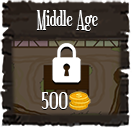
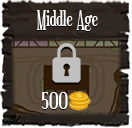
SeleccionObjetos
Añadida la funcionalidad de poder seleccionar un objeto a comprar y que se coloree de amarillo. Además de deshabilitar la interactividad de los demás botones para no causar confusión.

Changed region(s): [[0.3939, 0.3125, 0.6364, 0.6562]]

diff --git a/src/scenes/tiendaRecargarScene.js b/src/scenes/tiendaRecargarScene.js
@@ -16,6 +16,7 @@ let monedas=[
     }
 ];
 
+let monedasButton = [];
 class tiendaRecargarScene extends Phaser.Scene{
     constructor(){
         super("TiendaRecargarScene");
@@ -43,14 +44,14 @@ class tiendaRecargarScene extends Phaser.Scene{
             this.spriteTituloRecargar = this.add.sprite(gameConfig.scale.width/2,gameConfig.scale.height/7,'tituloRecargari');
         }
 
-        this.sprite100monedas = this.add.sprite(gameConfig.scale.width / 4,gameConfig.scale.height*1.5/3,monedas[0].sprite);
-        this.sprite100monedas.setInteractive().on('pointerdown', () =>this.desbloquear(monedas[0],dinero,0));
+        monedasButton[0] = this.add.sprite(gameConfig.scale.width / 4,gameConfig.scale.height*1.5/3,monedas[0].sprite);
+        monedasButton[0].setInteractive().on('pointerdown', () =>this.desbloquear(monedas[0],dinero,0));
 
-        this.sprite500monedas = this.add.sprite(gameConfig.scale.width*2 / 4,gameConfig.scale.height*1.5/3,monedas[1].sprite);
-        this.sprite500monedas.setInteractive().on('pointerdown', () =>this.desbloquear(monedas[1],dinero,1));
+        monedasButton[1] = this.add.sprite(gameConfig.scale.width*2 / 4,gameConfig.scale.height*1.5/3,monedas[1].sprite);
+        monedasButton[1].setInteractive().on('pointerdown', () =>this.desbloquear(monedas[1],dinero,1));
 
-        this.sprite1000monedas = this.add.sprite(gameConfig.scale.width*3 / 4,gameConfig.scale.height*1.5/3,monedas[2].sprite);
-        this.sprite1000monedas.setInteractive().on('pointerdown', () =>this.desbloquear(monedas[2],dinero,2));
+        monedasButton[2] = this.add.sprite(gameConfig.scale.width*3 / 4,gameConfig.scale.height*1.5/3,monedas[2].sprite);
+        monedasButton[2].setInteractive().on('pointerdown', () =>this.desbloquear(monedas[2],dinero,2));
 
         this.spriteSalir = this.add.sprite(gameConfig.scale.width / 15,(gameConfig.scale.height/8)*7.5,'botonSalir').setScale(0.1);
         this.spriteSalir.setInteractive().on('pointerdown', () => this.scene.start("TiendaScene"));
@@ -58,8 +59,13 @@ class tiendaRecargarScene extends Phaser.Scene{
 
     //Show a message to unlock a map
     desbloquear(moneda,dinero,pos){
+        var i;
+        for (i = 0; i < monedasButton.length; i++) {
+            monedasButton[i].disableInteractive();
+        }
 
         if(espanol){
+            monedasButton[pos].setTint(0xDEDE7C);
             this.mensajeDesbloquear = this.add.sprite(gameConfig.scale.width / 2,(gameConfig.scale.height/3)*2.4,'mensajeDesbloquear');
         }else{
             this.mensajeDesbloquear = this.add.sprite(gameConfig.scale.width / 2,(gameConfig.scale.height/3)*2.4,'mensajeDesbloqueari');
@@ -67,7 +73,7 @@ class tiendaRecargarScene extends Phaser.Scene{
         
 
         this.spriteDesbloquearNo = this.add.sprite(gameConfig.scale.width*1.2 / 2,(gameConfig.scale.height/3)*2.6,'botonDesbloquearNo');
-        this.spriteDesbloquearNo.setInteractive().on('pointerdown',()=> this.cerrarMensajeDesbloquear());
+        this.spriteDesbloquearNo.setInteractive().on('pointerdown',()=> this.cerrarMensajeDesbloquear(pos));
 
         this.spriteDesbloquearSi = this.add.sprite(gameConfig.scale.width*0.8 / 2,(gameConfig.scale.height/3)*2.6,'botonDesbloquearSi');
         this.spriteDesbloquearSi.setInteractive().on('pointerdown',()=> this.comprarMonedas(moneda,dinero,pos));
@@ -75,7 +81,12 @@ class tiendaRecargarScene extends Phaser.Scene{
     }
 
     //Destroy the message
-    cerrarMensajeDesbloquear(){
+    cerrarMensajeDesbloquear(pos){
+        var i;
+        for (i = 0; i < monedasButton.length; i++) {
+            monedasButton[i].setInteractive();
+        }
+        monedasButton[pos].clearTint();
         this.mensajeDesbloquear.destroy();
         this.spriteDesbloquearNo.destroy();
         this.spriteDesbloquearSi.destroy();
@@ -84,6 +95,6 @@ class tiendaRecargarScene extends Phaser.Scene{
     comprarMonedas(moneda,dinero,pos){
         coins += moneda.monedas;
         dinero.setText(coins);
-        this.cerrarMensajeDesbloquear();
+        this.cerrarMensajeDesbloquear(pos);
     }
 }

diff --git a/src/scenes/tiendaPersonajesScene.js b/src/scenes/tiendaPersonajesScene.js
@@ -113,7 +113,12 @@ class tiendaPersonajesScene extends Phaser.Scene{
     
     //Show a message to unlock a map
     desbloquear(personaje,dinero,pos){
+        var i;
+        for (i = 0; i < personajesButton.length; i++) {
+            personajesButton[i].disableInteractive();
+        }
         if(personaje.bloqueado){
+            personajesButton[pos].setTint(0xDEDE7C);
             if(espanol){
                 this.mensajeDesbloquear = this.add.sprite(gameConfig.scale.width / 2,(gameConfig.scale.height/3)*2.4,'mensajeDesbloquear');
             }else{
@@ -122,7 +127,7 @@ class tiendaPersonajesScene extends Phaser.Scene{
             
 
             this.spriteDesbloquearNo = this.add.sprite(gameConfig.scale.width*1.2 / 2,(gameConfig.scale.height/3)*2.6,'botonDesbloquearNo');
-            this.spriteDesbloquearNo.setInteractive().on('pointerdown',()=> this.cerrarMensajeDesbloquear());
+            this.spriteDesbloquearNo.setInteractive().on('pointerdown',()=> this.cerrarMensajeDesbloquear(pos));
 
             this.spriteDesbloquearSi = this.add.sprite(gameConfig.scale.width*0.8 / 2,(gameConfig.scale.height/3)*2.6,'botonDesbloquearSi');
             this.spriteDesbloquearSi.setInteractive().on('pointerdown',()=> this.comprarPersonaje(personaje,dinero,pos));
@@ -132,7 +137,7 @@ class tiendaPersonajesScene extends Phaser.Scene{
 
     comprarPersonaje(personaje,dinero,pos){
         //If i have enough money and the map is not blocked
-        this.cerrarMensajeDesbloquear();
+        this.cerrarMensajeDesbloquear(pos);
         if(coins >= personaje.coins){
             //Change sprite, set new texture and update coins
             personaje.sprite = personaje.spriteDesbloqueado;
@@ -147,7 +152,12 @@ class tiendaPersonajesScene extends Phaser.Scene{
     }
 
     //Destroy the message
-    cerrarMensajeDesbloquear(){
+    cerrarMensajeDesbloquear(pos){
+        var i;
+        for (i = 0; i < personajesButton.length; i++) {
+            personajesButton[i].setInteractive();
+        }
+        personajesButton[pos].clearTint();
         this.mensajeDesbloquear.destroy();
         this.spriteDesbloquearNo.destroy();
         this.spriteDesbloquearSi.destroy();

diff --git a/src/scenes/tiendaMapasScene.js b/src/scenes/tiendaMapasScene.js
@@ -148,7 +148,13 @@ class tiendaMapasScene extends Phaser.Scene{
 
     //Show a message to unlock a map
     desbloquear(mapa,dinero,pos){
+        var i;
+        for (i = 0; i < mapasButton.length; i++) {
+            mapasButton[i].disableInteractive();
+        }
+        
         if(mapa.bloqueado){
+            mapasButton[pos].setTint(0xDEDE7C);
             if(espanol){
                 this.mensajeDesbloquear = this.add.sprite(gameConfig.scale.width / 2,(gameConfig.scale.height/3)*2.4,'mensajeDesbloquear');
             }else{
@@ -157,7 +163,7 @@ class tiendaMapasScene extends Phaser.Scene{
             
 
             this.spriteDesbloquearNo = this.add.sprite(gameConfig.scale.width*1.2 / 2,(gameConfig.scale.height/3)*2.6,'botonDesbloquearNo');
-            this.spriteDesbloquearNo.setInteractive().on('pointerdown',()=> this.cerrarMensajeDesbloquear());
+            this.spriteDesbloquearNo.setInteractive().on('pointerdown',()=> this.cerrarMensajeDesbloquear(pos));
 
             this.spriteDesbloquearSi = this.add.sprite(gameConfig.scale.width*0.8 / 2,(gameConfig.scale.height/3)*2.6,'botonDesbloquearSi');
             this.spriteDesbloquearSi.setInteractive().on('pointerdown',()=> this.comprarMapa(mapa,dinero,pos));
@@ -167,7 +173,7 @@ class tiendaMapasScene extends Phaser.Scene{
 
     comprarMapa(mapa,dinero,pos){
         //If i have enough money and the map is not blocked
-        this.cerrarMensajeDesbloquear();
+        this.cerrarMensajeDesbloquear(pos);
         if(coins >= mapa.coins){
             //Change sprite, set new texture and update coins
             if(espanol){
@@ -187,7 +193,12 @@ class tiendaMapasScene extends Phaser.Scene{
     }
 
     //Destroy the message
-    cerrarMensajeDesbloquear(){
+    cerrarMensajeDesbloquear(pos){
+        var i;
+        for (i = 0; i < mapasButton.length; i++) {
+            mapasButton[i].setInteractive();
+        }
+        mapasButton[pos].clearTint();
         this.mensajeDesbloquear.destroy();
         this.spriteDesbloquearNo.destroy();
         this.spriteDesbloquearSi.destroy();
@@ -216,4 +227,5 @@ class tiendaMapasScene extends Phaser.Scene{
         }
         
     }
+
 }
